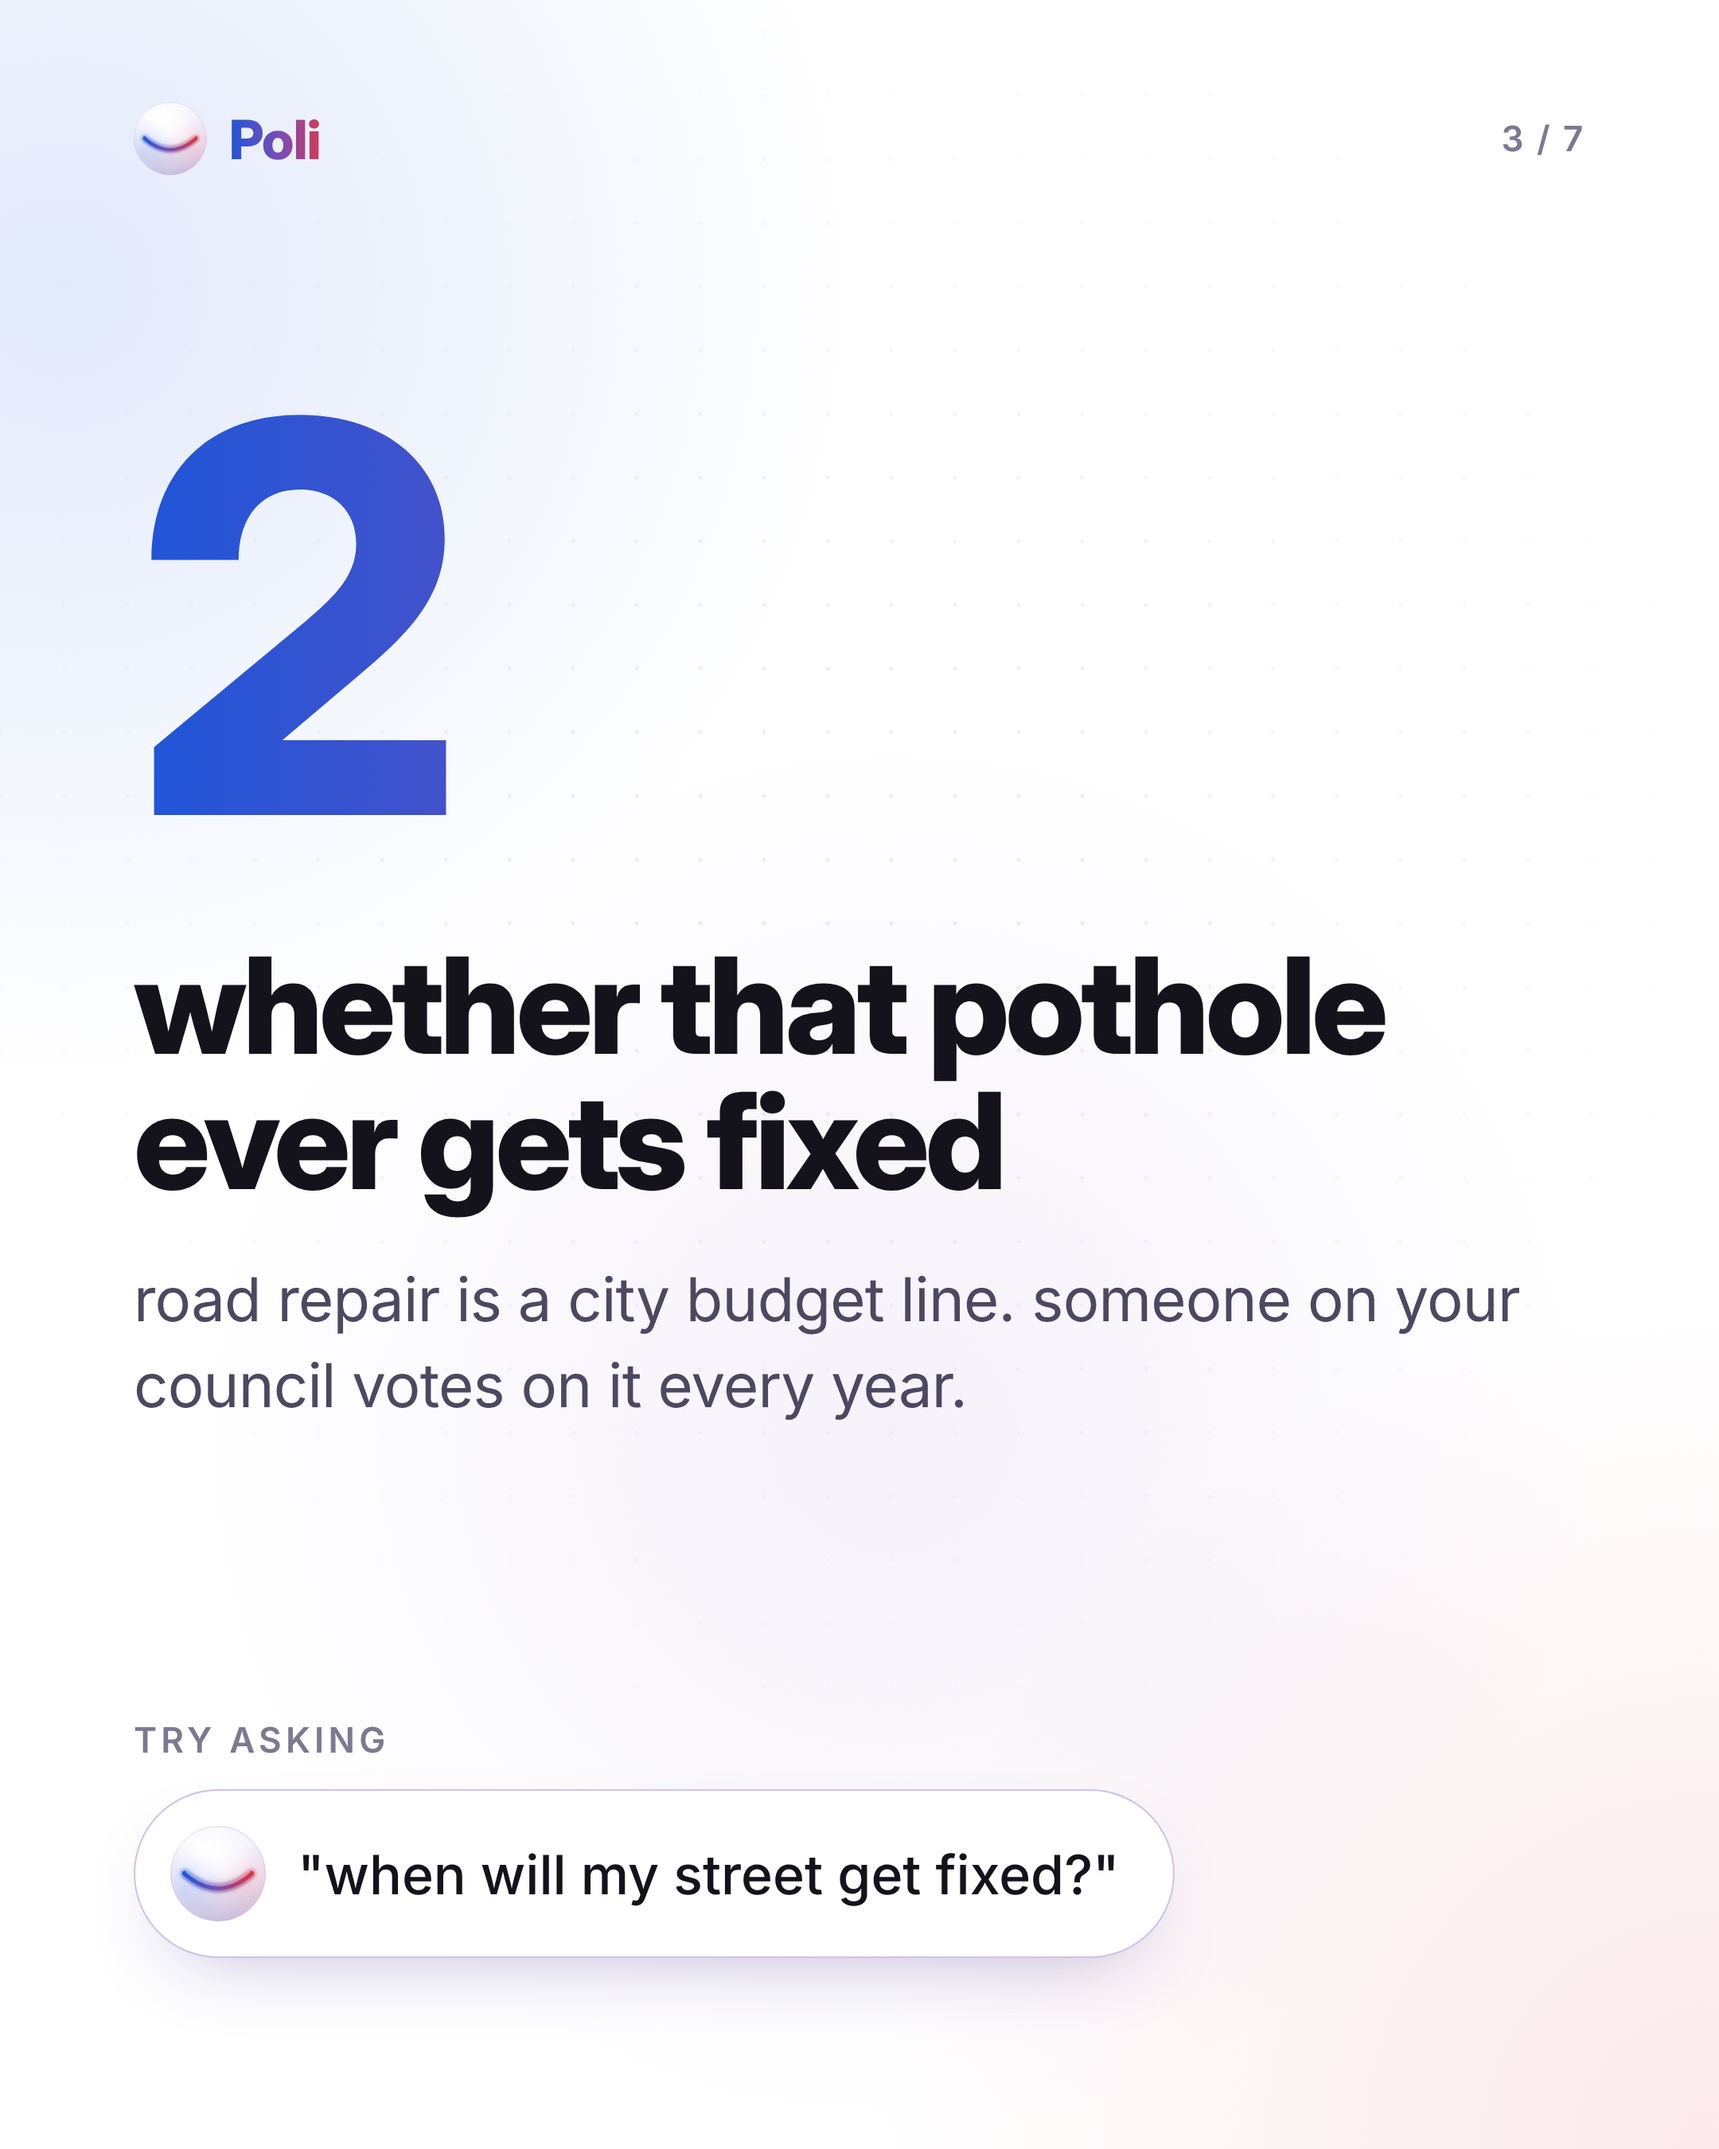
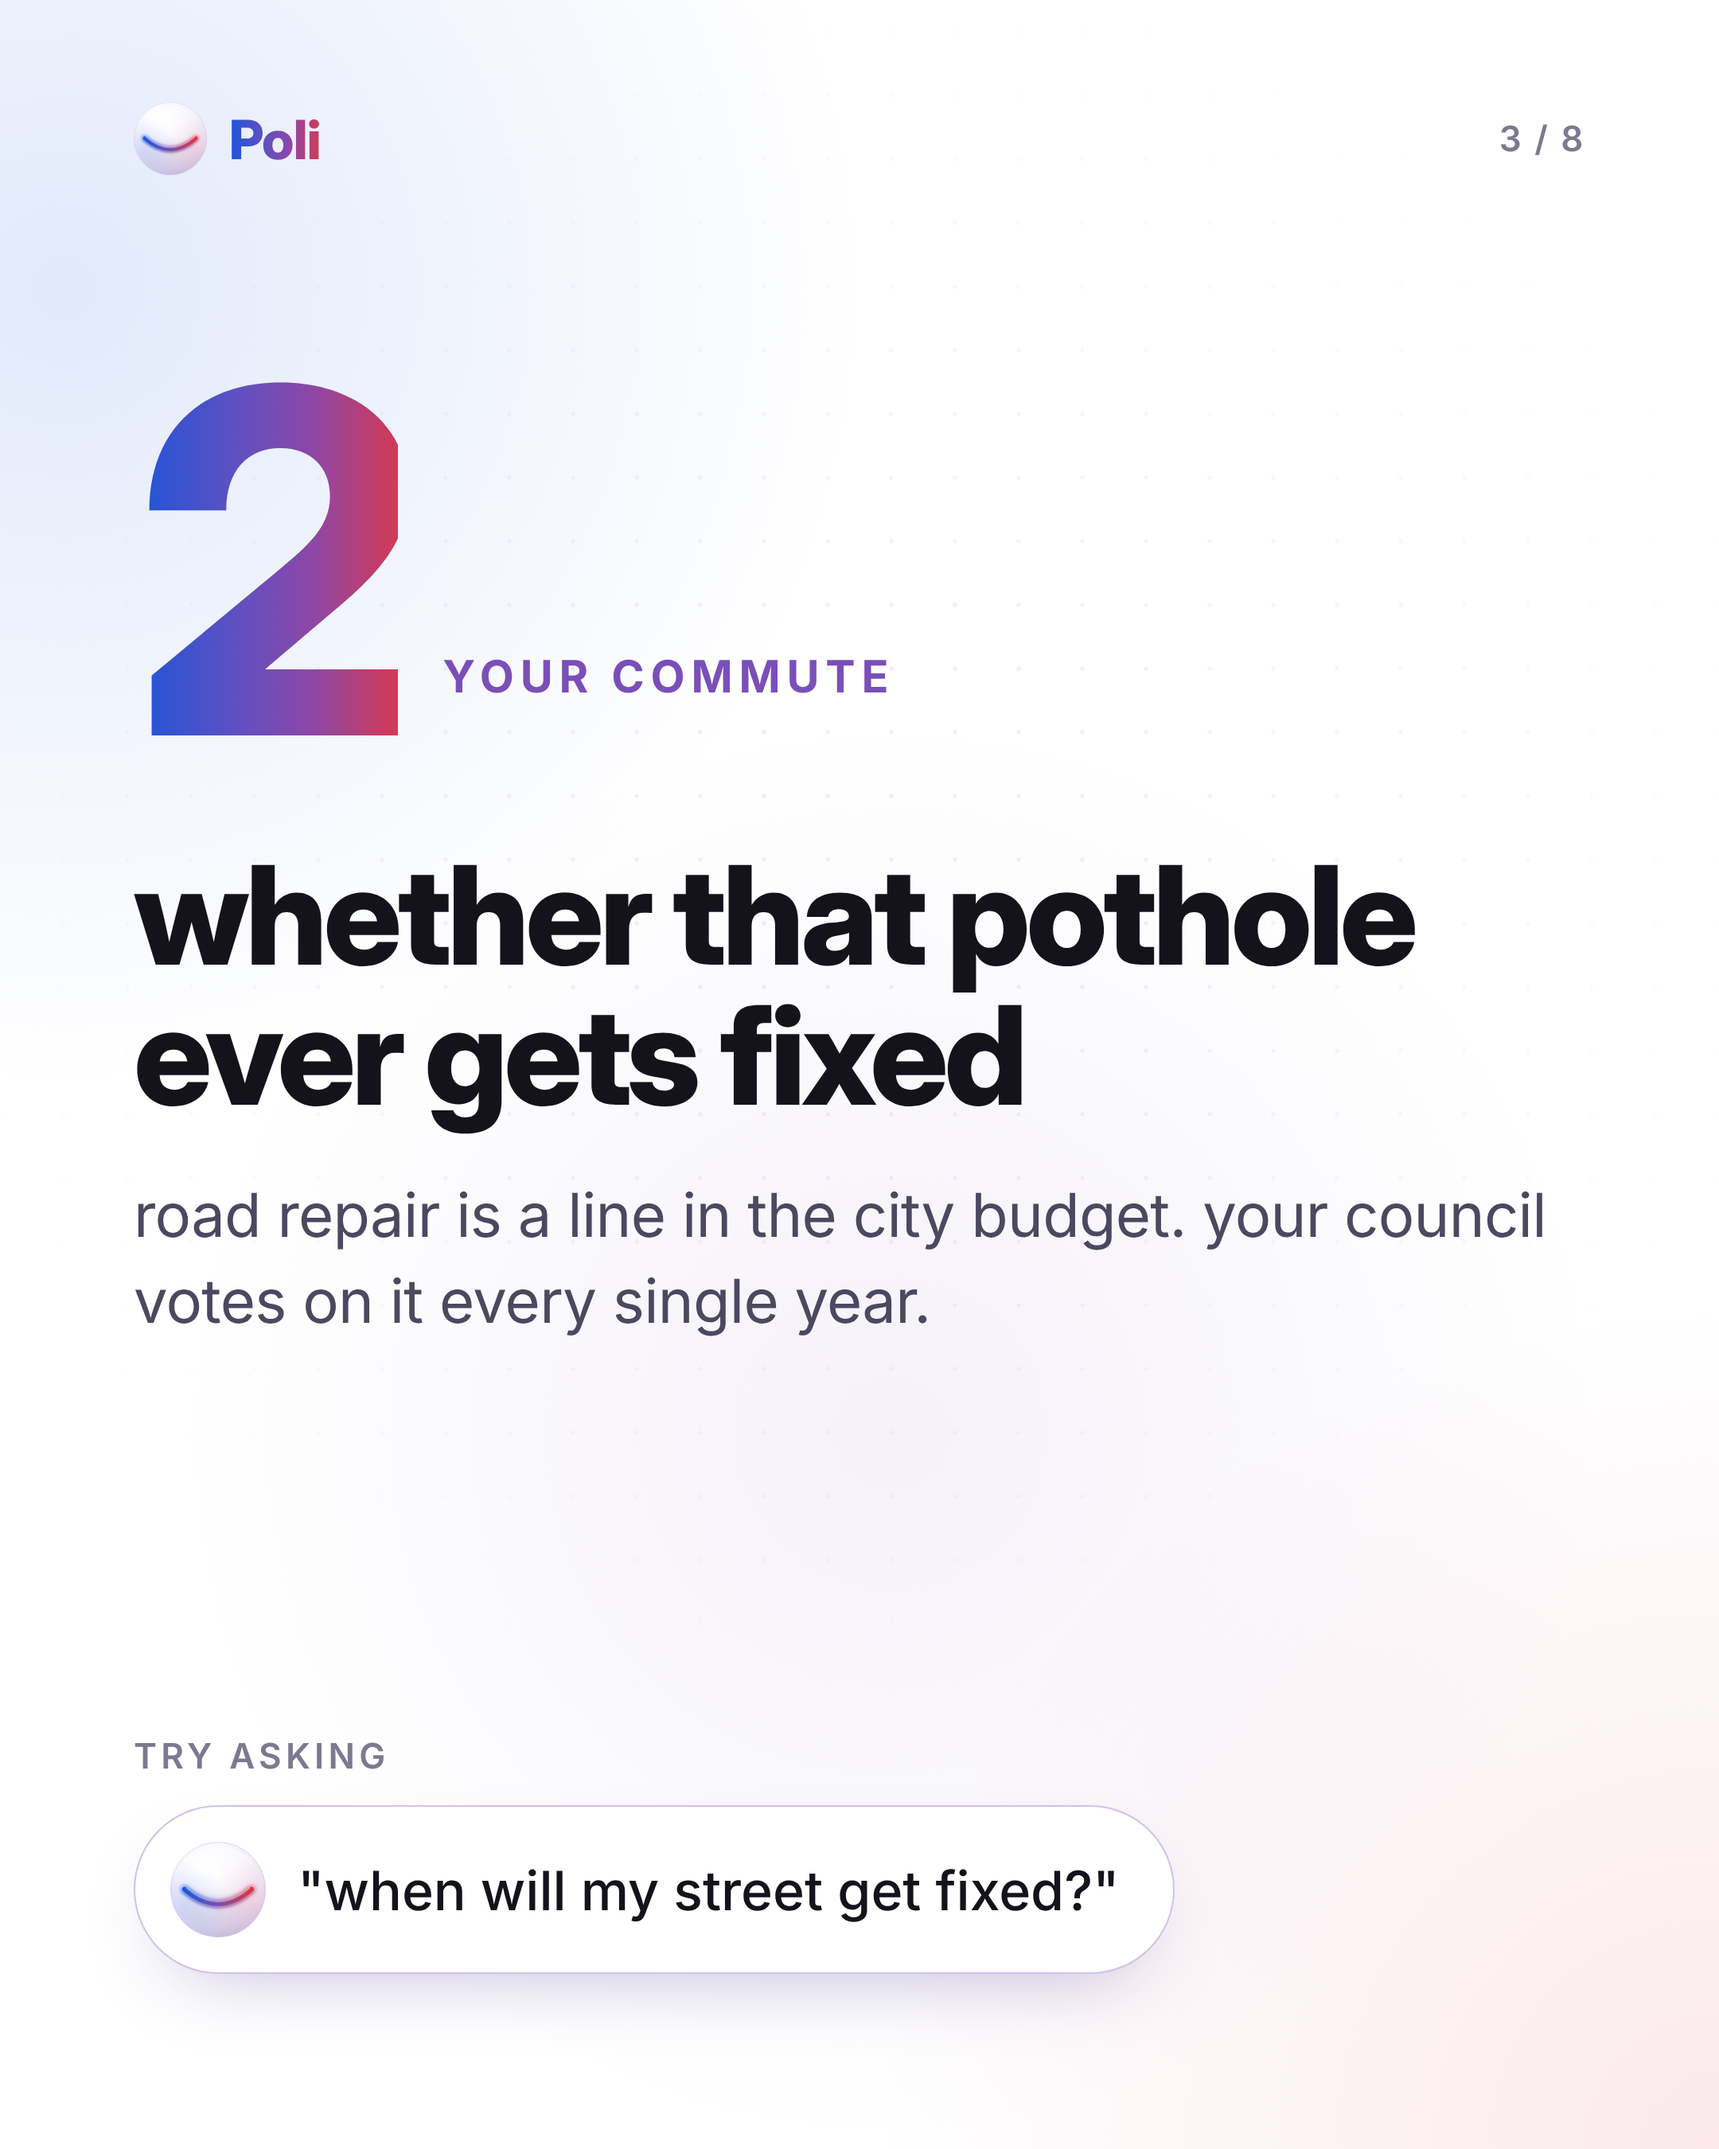
Post 3: persuasive rewrite, 8 slides building to Poli as the fix
Claude-Session: https://claude.ai/code/session_01SShT3dbSYkGvjEDFvWeJak

diff --git a/weekly-posts/source/posts.html b/weekly-posts/source/posts.html
@@ -81,6 +81,10 @@
   .col.them .say { font-size: 48px !important; text-decoration: line-through; text-decoration-color: rgba(154,151,173,0.6); text-decoration-thickness: 3px; }
   .col.us .say { font-size: 70px !important; color: #14131C; }
   .col.them .note { font-size: 28px !important; }
+  .col.eq { min-height: 720px !important; }
+  .col.loud { background: #fff; border: 2px solid #14131C; box-shadow: 0 30px 70px -40px rgba(20,19,28,0.35); }
+  .col.quiet { background: var(--panel); border: 2px dashed #D6D3E0; }
+  .col.loud .note, .col.quiet .note { font-size: 32px; }
   .verdict { position: absolute; left: 84px; right: 84px; bottom: 96px; text-align: center; font: 700 44px/1.2 'Display'; letter-spacing: -0.02em; color: #14131C; }
   .col { border-radius: 40px; padding: 52px 44px; min-height: 700px; display: flex; flex-direction: column; gap: 22px; }
   .col.them { background: var(--panel); border: 1.5px solid var(--line); }
@@ -201,25 +205,35 @@ const P2 = [
 // -------------------------------------------------------------------------------------------
 // POST 3 · The 2027 local races are already starting. What your city council actually decides.
 // -------------------------------------------------------------------------------------------
-const li = (i, n, title, body, q) => `${head(i, 7)}
-  <div class="abs" style="top:250px"><div class="bignum g" style="font-size:340px;width:auto">${n}</div>
-    <div class="h2" style="font-size:84px;margin-top:60px">${title}</div><div class="p" style="margin-top:30px;font-size:38px;max-width:880px">${body}</div></div>${ask(q, 1080)}`;
+const li = (i, n, area, title, body, q) => `${head(i, 8)}
+  <div class="abs" style="top:230px"><div style="display:flex;align-items:flex-end;gap:28px"><div class="bignum g" style="font-size:300px;width:auto">${n}</div><span class="tag" style="font-size:28px;padding-bottom:34px">${area}</span></div>
+    <div class="h2" style="font-size:86px;margin-top:56px">${title}</div><div class="p" style="margin-top:30px;font-size:38px;max-width:900px">${body}</div></div>${ask(q, 1090)}`;
 const P3 = [
-  () => `${head(1, 7)}
-    <div class="abs" style="top:290px"><span class="tag">The midterms are over. Next up: your city</span>
-      <div class="h" style="margin-top:28px">the race that changes your week the most is the one <span class="g">nobody watches.</span></div>
-      <div class="p" style="margin-top:44px;max-width:820px">5 things your city council decides that you'll actually feel.</div></div>${swipe}`,
-  () => li(2, '1', 'how long a new home takes to get built', "permits run through city hall. slow permits means fewer homes, and fewer homes usually means higher rent.", '"how will you speed up permits?"'),
-  () => li(3, '2', 'whether that pothole ever gets fixed', "road repair is a city budget line. someone on your council votes on it every year.", '"when will my street get fixed?"'),
-  () => li(4, '3', 'the streetlight on your block', "public safety staffing, response times, broken lights. a lot of it is local.", '"what\'s your plan for public safety?"'),
-  () => li(5, '4', "if the pool's open on saturday", 'parks, libraries, rec centers, summer jobs for teens. all decided at the city level.', '"will the pool open on weekends?"'),
-  () => li(6, '5', "what's in your water pipes", "replacing old pipes is a city project with a real price tag. someone decides when it happens.", '"when do the old pipes get replaced?"'),
-  () => `${head(7, 7)}
-    <div class="abs" style="top:240px"><div class="h2">lots of cities pick a mayor and council <span class="g">in 2027.</span></div>
-      <div class="p" style="margin-top:30px;max-width:860px">some campaigns are already starting. you don't need to follow every headline. just know who's running and ask them what they'll do.</div></div>
-    <div class="card" style="top:720px"><div class="k">THINGS YOU CAN ASK</div>
-      <div class="v">"what's your plan for rent?"</div><div class="v">"when will my street get repaved?"</div><div class="v">"will you keep the library open?"</div></div>
-    ${foot}`,
+  () => `${head(1, 8)}
+    <div class="abs" style="top:270px"><span class="tag">The midterms are over. Next up: your city</span>
+      <div class="h" style="margin-top:28px">the election that shapes your daily life the most is the one <span class="g">you know the least about.</span></div>
+      <div class="p" style="margin-top:44px;max-width:840px">that's not your fault. swipe and you'll see why.</div></div>${swipe}`,
+  () => li(2, '1', 'Your rent', 'how many homes get built near you', "permits run through city hall. slow permits mean fewer homes, and fewer homes mean you pay more.", '"how will you speed up permits?"'),
+  () => li(3, '2', 'Your commute', 'whether that pothole ever gets fixed', "road repair is a line in the city budget. your council votes on it every single year.", '"when will my street get fixed?"'),
+  () => li(4, '3', 'Your street at night', 'how safe the walk home feels', "police staffing, response times, the broken streetlight on your block. a lot of it is decided locally.", '"what\'s your plan for public safety?"'),
+  () => li(5, '4', 'Your weekend', 'whether the pool and library are open', "parks, libraries, rec centers, summer jobs for teens. all set by the people on your city ballot.", '"will the library stay open later?"'),
+  () => li(6, '5', 'Your tap water', "what's still in the pipes", "replacing old pipes is a real city project with a real price tag. someone decides when it finally happens.", '"when do the old pipes get replaced?"'),
+  () => `${head(7, 8)}
+    <div class="abs" style="top:200px"><span class="tag" style="font-size:26px">So why don't you know who's running?</span></div>
+    <div class="vs" style="grid-template-columns:minmax(0,1fr) minmax(0,1fr)">
+      <div class="col eq loud"><div class="lab" style="color:#4B4860">🇺🇸 The president</div><div class="say" style="font-size:58px !important">you can't escape it</div><div class="note">televised debates, nonstop news, ads on every channel. you know more than you ever wanted to.</div></div>
+      <div class="col eq quiet"><div class="lab" style="color:#4B4860">🏛 Your city council</div><div class="say" style="font-size:58px !important;text-decoration:none;color:#9A97AD">you have to go looking</div><div class="note" style="color:#6E6A80">a mailer, if you're lucky. a website nobody reads. local races barely get covered, even though they hit closest to home.</div></div></div>
+    <div class="verdict">the people with the most power over your week get the least attention.</div>`,
+  () => `${head(8, 8)}
+    <div class="abs" style="top:200px"><div class="h2">so skip the digging. <span class="g">ask them directly.</span></div>
+      <div class="p" style="margin-top:22px;max-width:900px">Poli puts an AI Representative on a candidate's own website. any question on this list, any time, answered in their own words.</div></div>
+    <div class="sample" style="right:110px;top:582px">SAMPLE · DEMO CANDIDATE</div>
+    <div class="wid" style="top:610px;padding:34px">
+      <div style="display:flex;gap:20px;align-items:center">${orb(80)}<div><div class="t1" style="font-size:34px">Ask Alex Rivera</div><div class="t2">AI Representative for Alex's campaign</div></div></div>
+      <div class="u" style="margin-top:22px">How will you speed up permits?</div>
+      <div class="a">${orb(50)}<div class="b"><div class="lbl">Ask Alex · AI representative</div>Alex's plan cuts new-home permit waits from 143 days to 70.</div></div>
+    </div>
+    <div class="abs" style="bottom:128px;font:600 30px Inter;color:#14131C">lots of cities elect a mayor and council in 2027. candidate not on Poli yet? ask them to join.</div>${foot}`,
 ];
 
 const POSTS = { 1: P1, 2: P2, 3: P3 };

diff --git a/weekly-posts/source/r3.js b/weekly-posts/source/r3.js
@@ -1,0 +1,5 @@
+const { chromium } = require('playwright'); const path = require('path');
+(async () => { const b = await chromium.launch({ args: ['--allow-file-access-from-files'] }); const p = await b.newPage({ viewport: { width: 1080, height: 1350 }, deviceScaleFactor: Number(process.argv[3] || 1) });
+  p.on('pageerror', e => console.error('ERR', e.message));
+  for (let i = 1; i <= 8; i++) { await p.goto('file://' + path.join(__dirname, 'posts.html') + `?p=3&n=${i}`); await p.evaluate(() => window.ready); await p.screenshot({ path: `${process.argv[2]}/slide-${i}.png` }); }
+  await b.close(); })();
